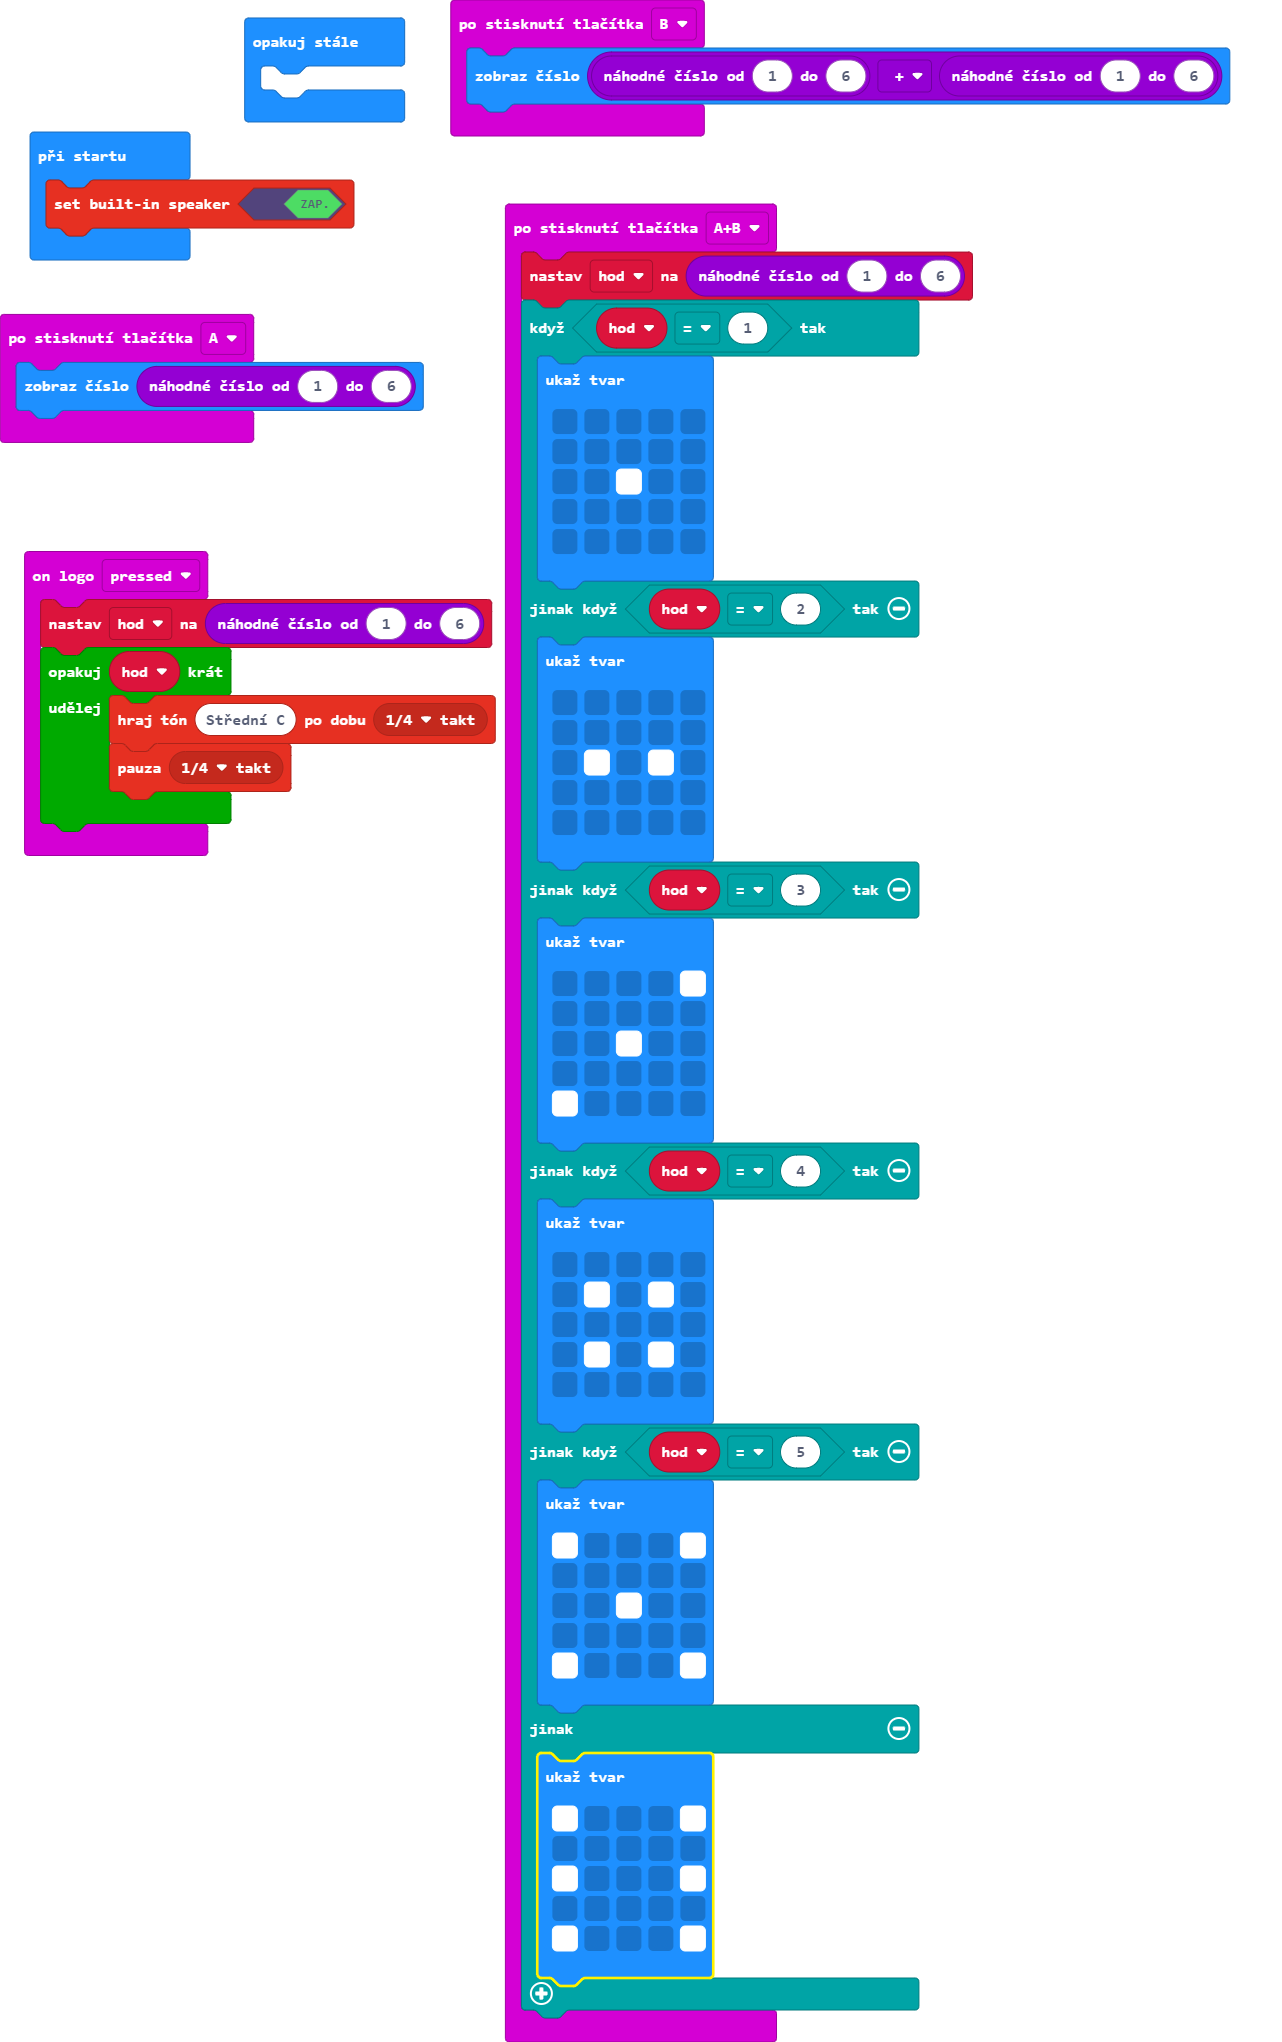
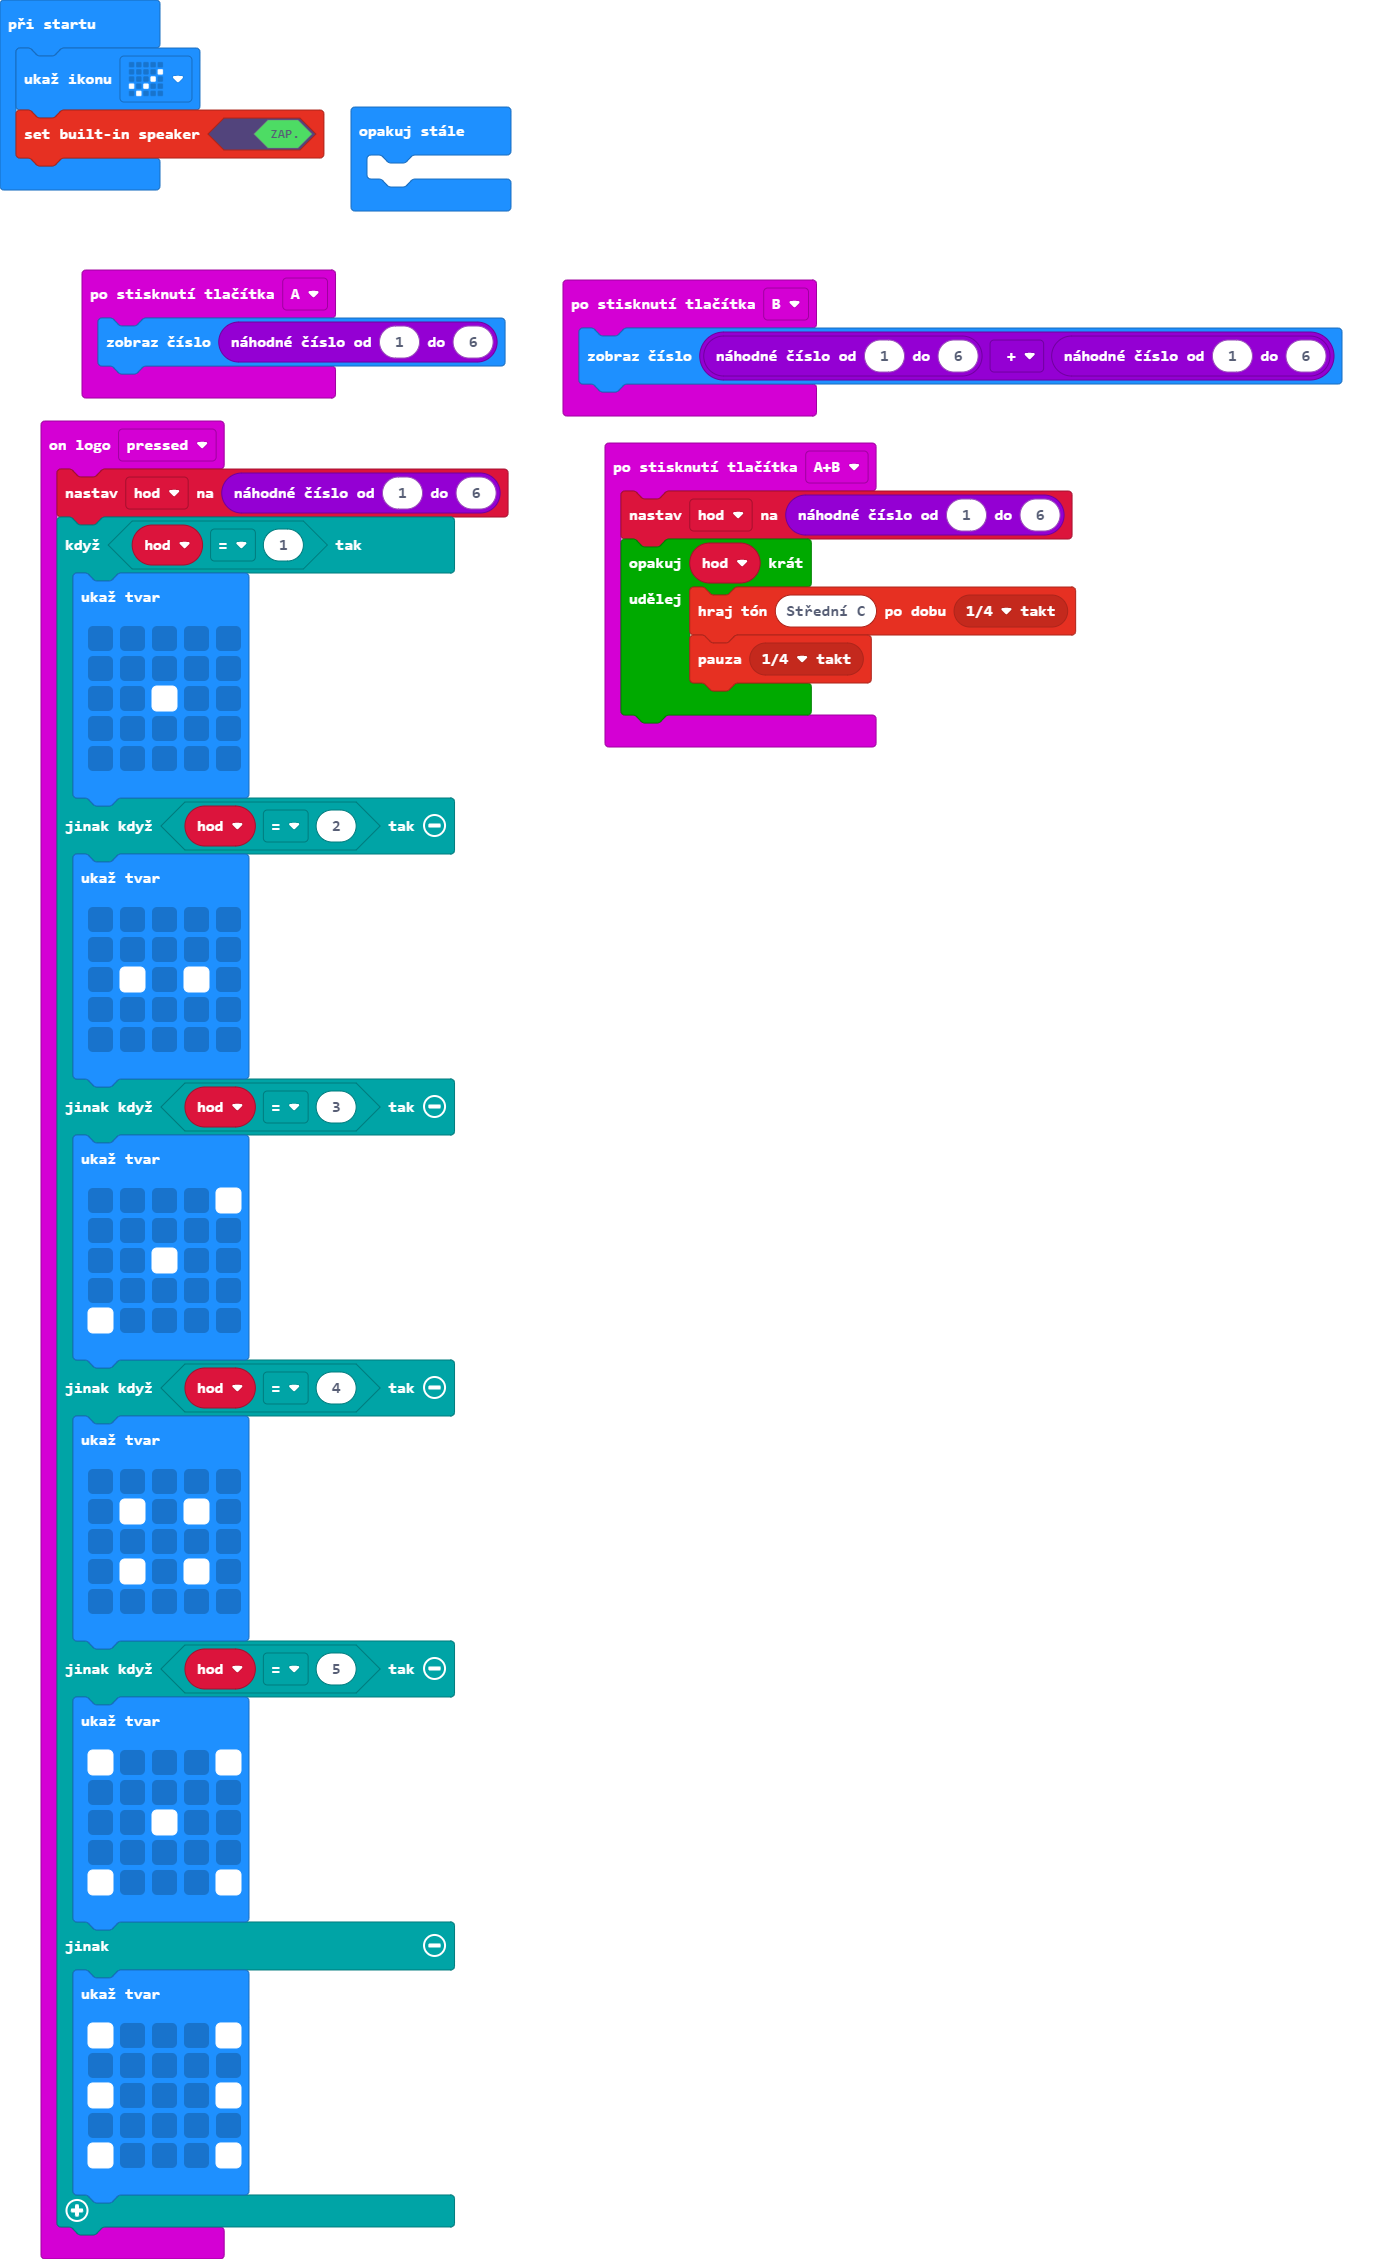
Aktualizovat pxt.json, main.blocks, main.ts, main.py

diff --git a/main.ts b/main.ts
@@ -3,6 +3,16 @@ input.onButtonPressed(Button.A, function () {
 })
 input.onButtonPressed(Button.AB, function () {
     hod = randint(1, 6)
+    for (let index = 0; index < hod; index++) {
+        music.playTone(262, music.beat(BeatFraction.Quarter))
+        music.rest(music.beat(BeatFraction.Quarter))
+    }
+})
+input.onButtonPressed(Button.B, function () {
+    basic.showNumber(randint(1, 6) + randint(1, 6))
+})
+input.onLogoEvent(TouchButtonEvent.Pressed, function () {
+    hod = randint(1, 6)
     if (hod == 1) {
         basic.showLeds(`
             . . . . .
@@ -53,17 +63,8 @@ input.onButtonPressed(Button.AB, function () {
             `)
     }
 })
-input.onButtonPressed(Button.B, function () {
-    basic.showNumber(randint(1, 6) + randint(1, 6))
-})
-input.onLogoEvent(TouchButtonEvent.Pressed, function () {
-    hod = randint(1, 6)
-    for (let index = 0; index < hod; index++) {
-        music.playTone(262, music.beat(BeatFraction.Quarter))
-        music.rest(music.beat(BeatFraction.Quarter))
-    }
-})
 let hod = 0
+basic.showIcon(IconNames.Yes)
 music.setBuiltInSpeakerEnabled(true)
 basic.forever(function () {
 	

diff --git a/main.py b/main.py
@@ -1,0 +1,76 @@
+def on_button_pressed_a():
+    basic.show_number(randint(1, 6))
+input.on_button_pressed(Button.A, on_button_pressed_a)
+
+def on_button_pressed_ab():
+    global hod
+    hod = randint(1, 6)
+    for index in range(hod):
+        music.play_tone(262, music.beat(BeatFraction.QUARTER))
+        music.rest(music.beat(BeatFraction.QUARTER))
+input.on_button_pressed(Button.AB, on_button_pressed_ab)
+
+def on_button_pressed_b():
+    basic.show_number(randint(1, 6) + randint(1, 6))
+input.on_button_pressed(Button.B, on_button_pressed_b)
+
+def on_logo_pressed():
+    global hod
+    hod = randint(1, 6)
+    if hod == 1:
+        basic.show_leds("""
+            . . . . .
+                        . . . . .
+                        . . # . .
+                        . . . . .
+                        . . . . .
+        """)
+    elif hod == 2:
+        basic.show_leds("""
+            . . . . .
+                        . . . . .
+                        . # . # .
+                        . . . . .
+                        . . . . .
+        """)
+    elif hod == 3:
+        basic.show_leds("""
+            . . . . #
+                        . . . . .
+                        . . # . .
+                        . . . . .
+                        # . . . .
+        """)
+    elif hod == 4:
+        basic.show_leds("""
+            . . . . .
+                        . # . # .
+                        . . . . .
+                        . # . # .
+                        . . . . .
+        """)
+    elif hod == 5:
+        basic.show_leds("""
+            # . . . #
+                        . . . . .
+                        . . # . .
+                        . . . . .
+                        # . . . #
+        """)
+    else:
+        basic.show_leds("""
+            # . . . #
+                        . . . . .
+                        # . . . #
+                        . . . . .
+                        # . . . #
+        """)
+input.on_logo_event(TouchButtonEvent.PRESSED, on_logo_pressed)
+
+hod = 0
+basic.show_icon(IconNames.YES)
+music.set_built_in_speaker_enabled(True)
+
+def on_forever():
+    pass
+basic.forever(on_forever)
